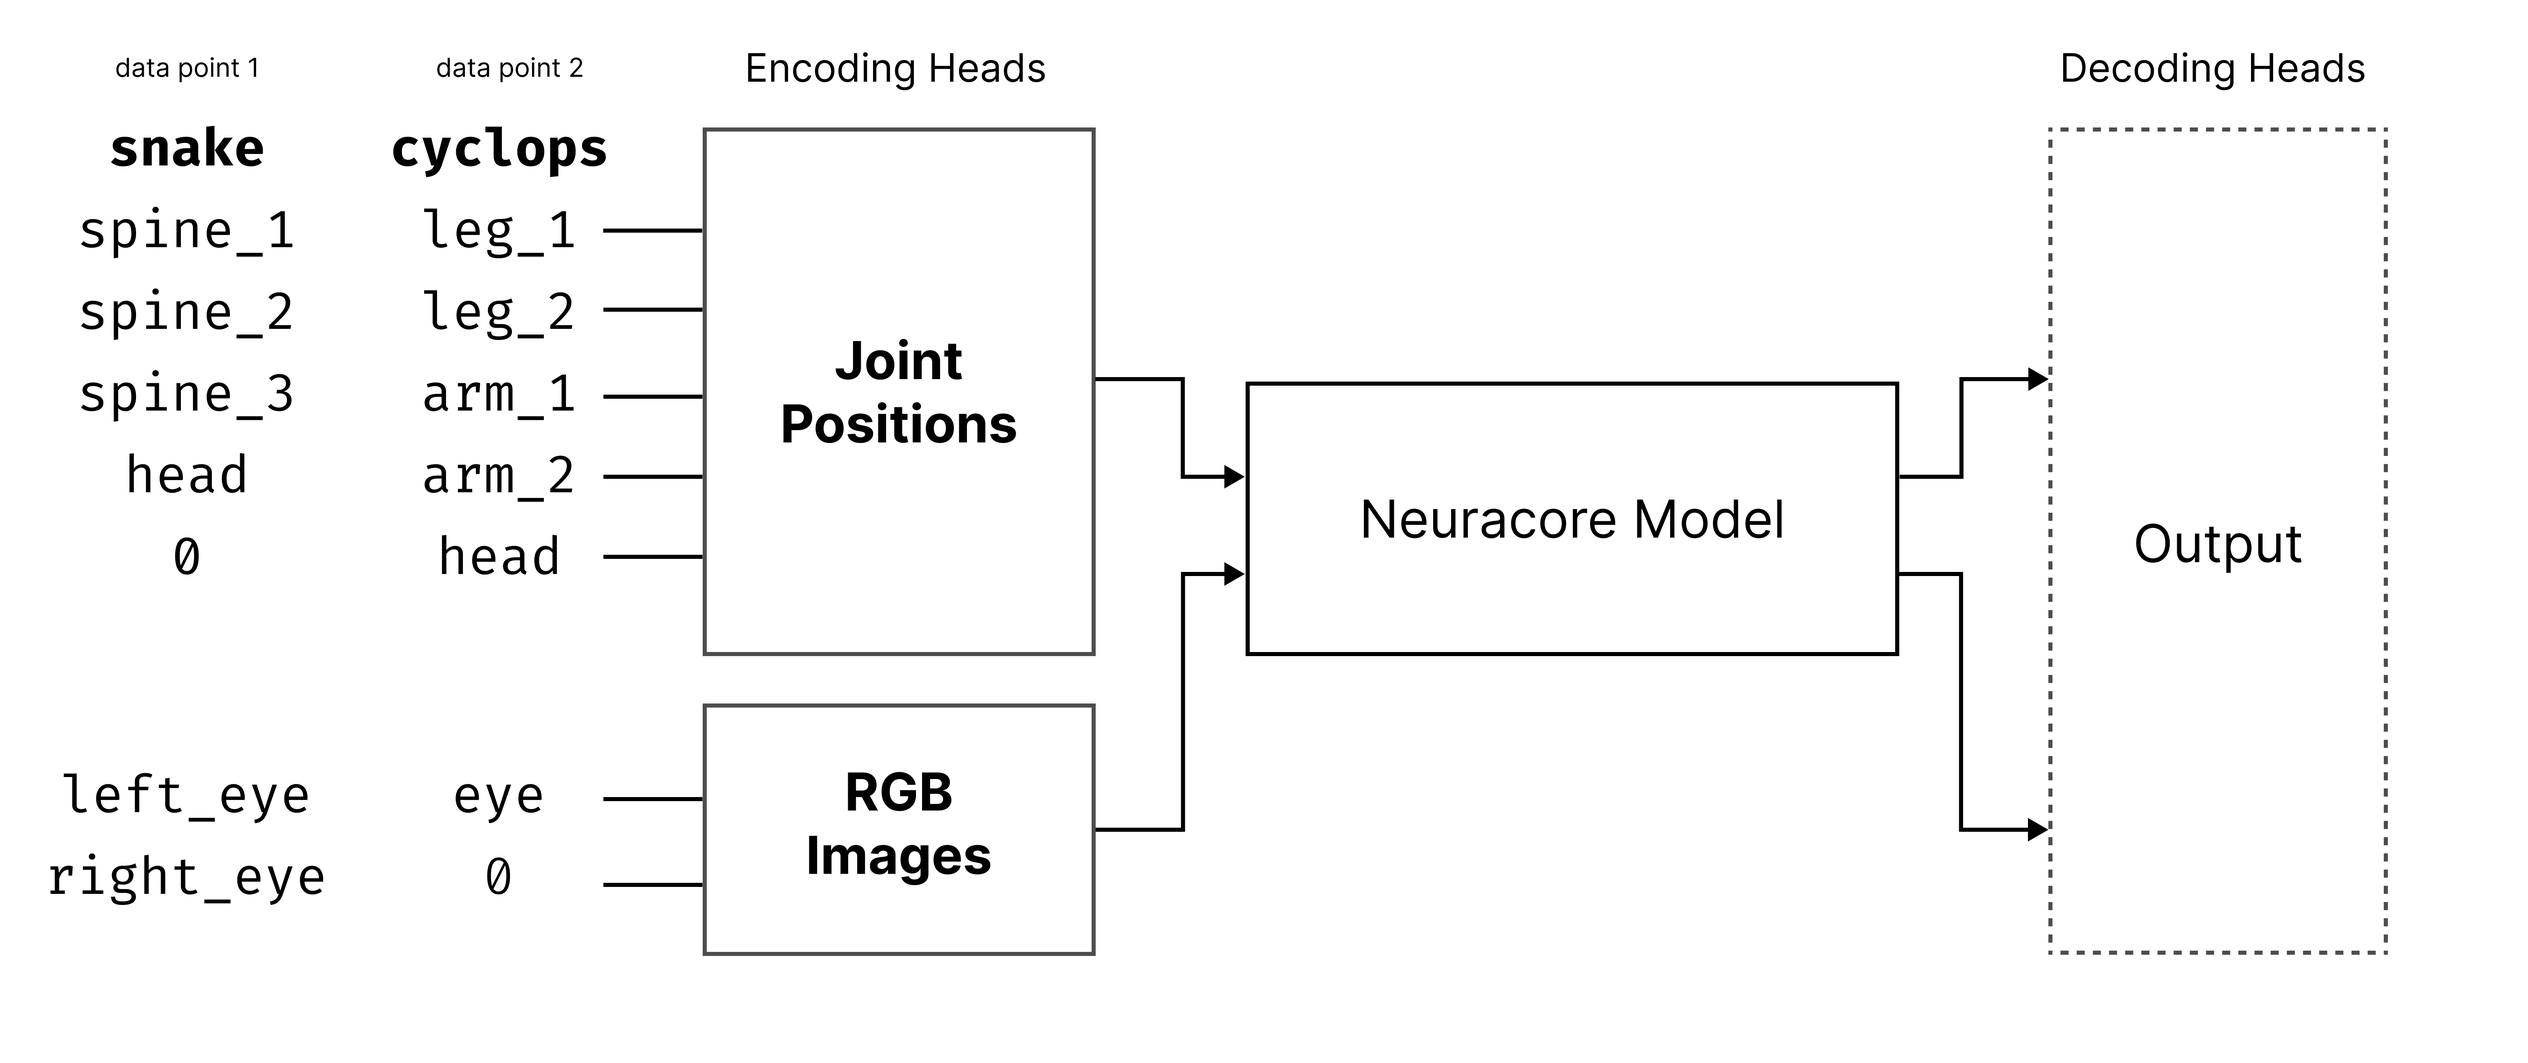
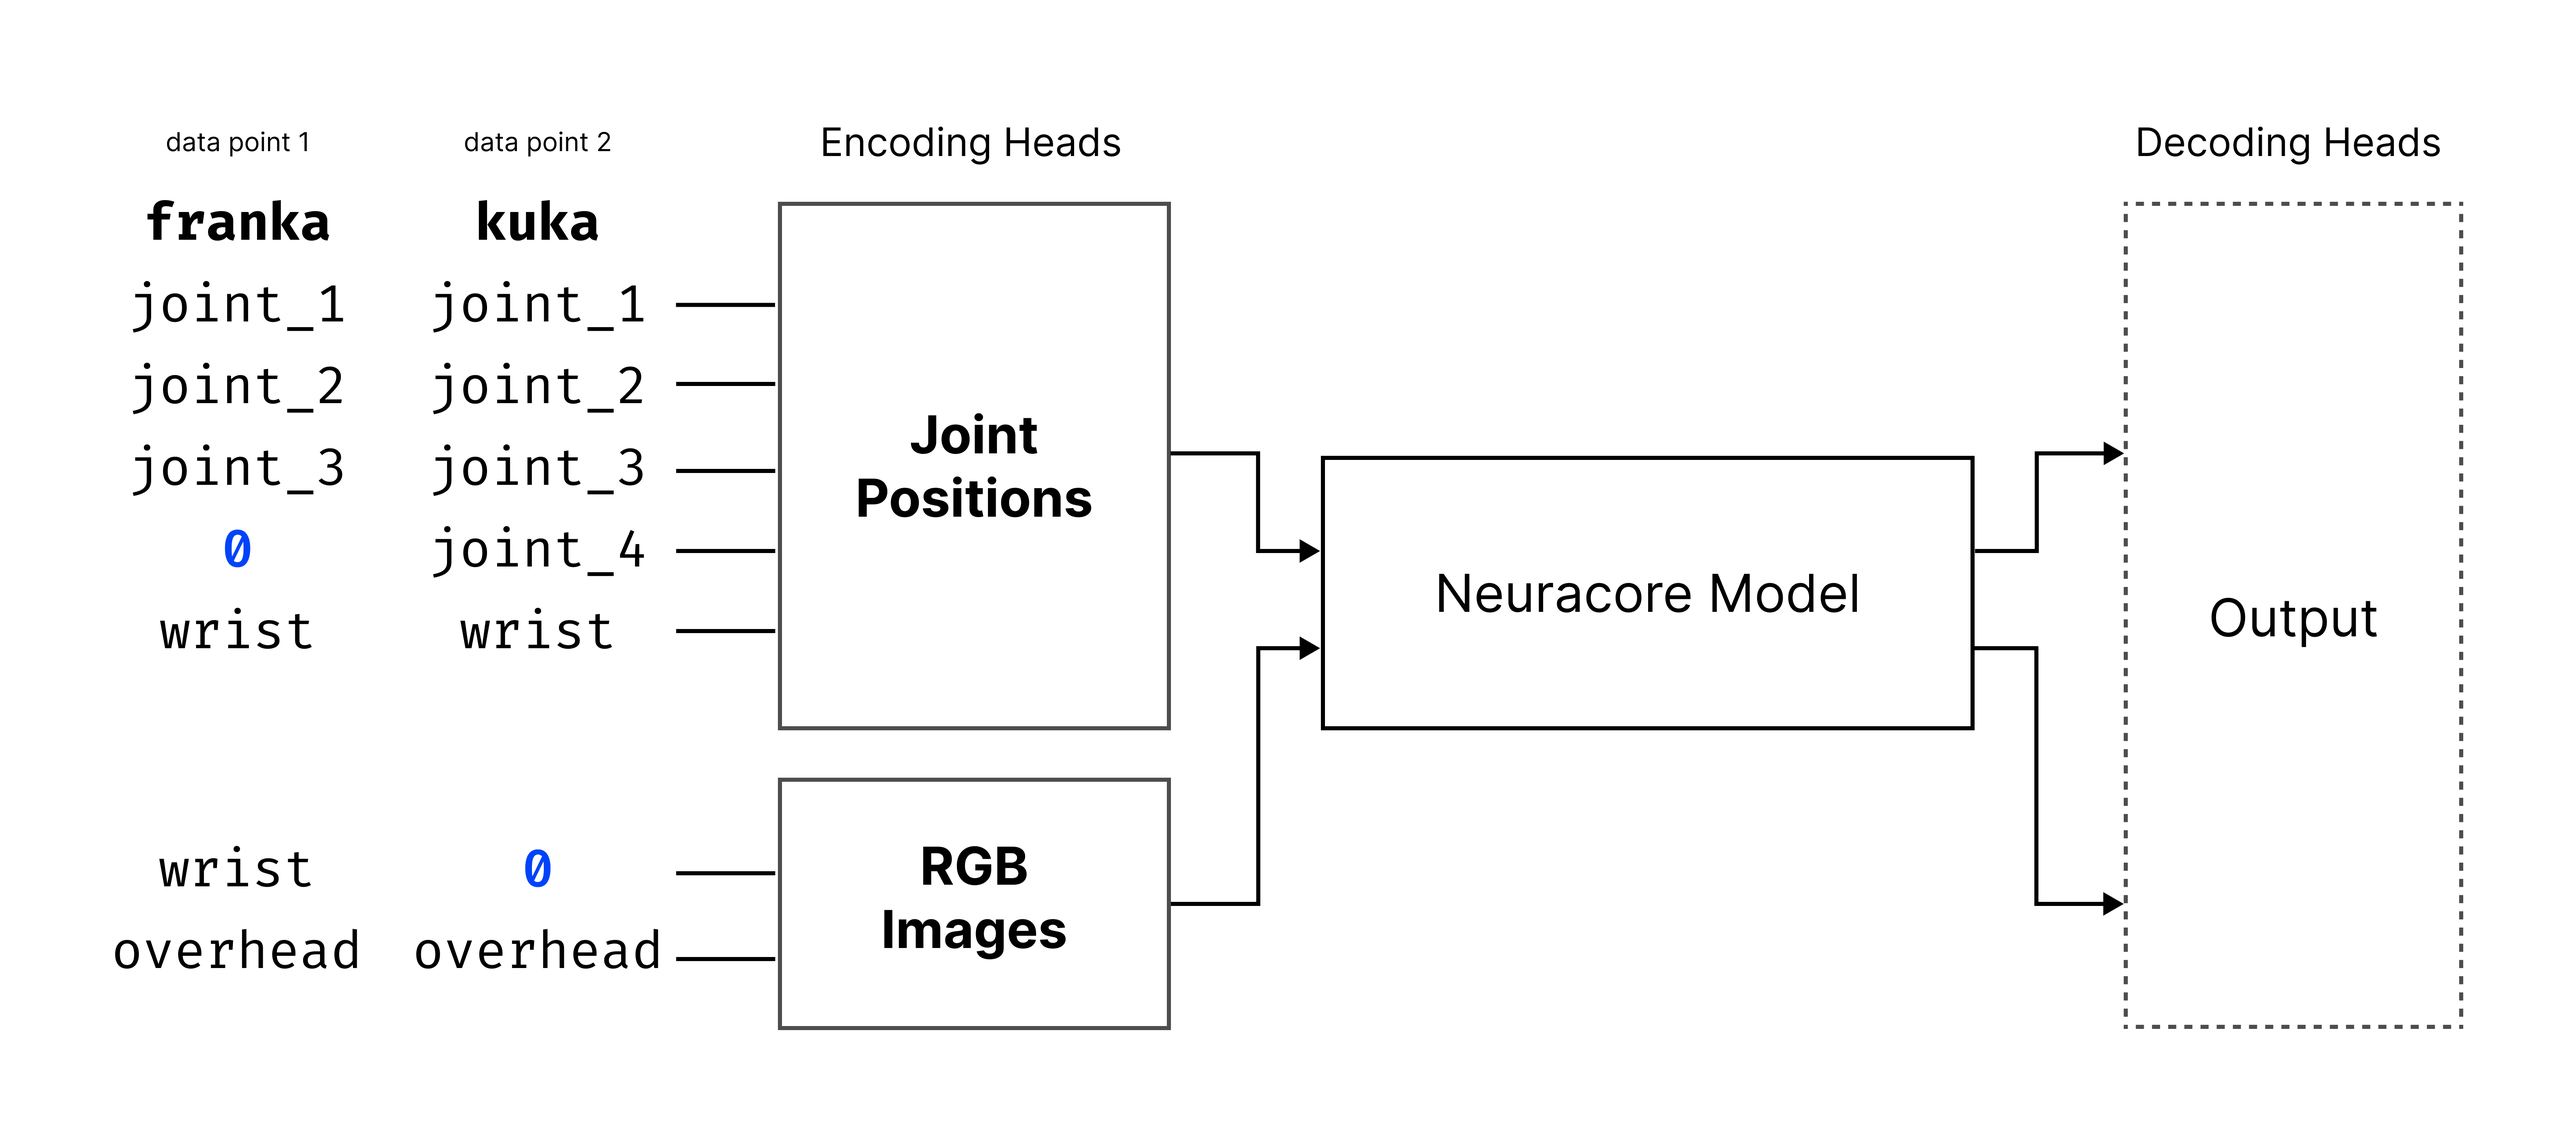
fix: update images

diff --git a/docs/model_construction.md b/docs/model_construction.md
@@ -4,7 +4,7 @@
 
 It usually begins with a single robot. You train a model on a Franka Emika Panda, define the input tensors, fix the output dimensionality, and everything works as expected. The model converges, inference is stable, and the system feels clean and well-structured. At this stage, the architecture appears robot-agnostic — but in reality, it is tightly coupled to one embodiment.
 
-Then a second dataset is introduced, perhaps from a KUKA LBR iiwa. On the surface, the robots are similar: both are 7-DoF manipulators with grippers and RGB inputs. But under the hood, the differences begin to surface. Joint names differ. One robot has an extra joint. Camera placements are not identical. The ordering of data points in the logs does not match. Even gripper data may be represented differently.
+Then a second dataset is introduced, perhaps from a KUKA LBR iiwa. On the surface, the robots are similar: both are 7-DoF manipulators with wrist joints and RGB inputs. But under the hood, the differences begin to surface. Joint names differ. One robot has an extra joint. Camera placements are not identical. The ordering of data points in the logs does not match. Even wrist joint data may be represented differently.
 
 At first, the solution is incremental. You reorder tensors. You insert padding. You add a mapping layer. You write conditionals in the inference code. The pipeline still runs. But now structure has started leaking. The model input definition is no longer cleanly separated from embodiment logic.
 
@@ -63,7 +63,7 @@ This distinction matters because model construction operates across embodiments,
 
 An `EmbodimentDescription` defines what data points exist for one robot and where each datapoint lives in index space.
 
-Each `DataType` (for example `JOINTS`, `RGB_IMAGES`, `GRIPPER_OPEN_AMOUNT`) maps to:
+Each `DataType` (for example `JOINTS`, `RGB_IMAGES`, `GRIPPER_JOINT_OPEN_AMOUNT`) maps to:
 
 `dict[int, str]`
 
@@ -80,7 +80,7 @@ Conceptual example:
         1: "panda_joint_2",
         2: "panda_joint_3",
         3: "panda_joint_4",
-        5: "franka_gripper",
+        5: "franka_wrist_joint",
     },
     RGB_IMAGES: {
         0: "wrist_camera",
@@ -132,7 +132,7 @@ Each robot is an `EmbodimentDescription`, and the full mapping is a `CrossEmbodi
 
 For clarity, input and output specs are identical here. In practice, output specs often represent target data (for example target joints, torques, or end-effector pose) and may differ from input specs.
 
-```python
+```python{8,25}
 input_cross_embodiment_spec: CrossEmbodimentDescription = {
     "franka": {
         JOINTS: {
@@ -140,7 +140,7 @@ input_cross_embodiment_spec: CrossEmbodimentDescription = {
             1: "panda_joint_2",
             2: "panda_joint_3",
             3: "panda_joint_4",
-            5: "franka_gripper",
+            5: "franka_wrist_joint", # Index 4 is missing as there is no joint_5
         },
         RGB_IMAGES: {
             0: "franka_wrist_camera",
@@ -154,17 +154,17 @@ input_cross_embodiment_spec: CrossEmbodimentDescription = {
             2: "iiwa_joint_3",
             3: "iiwa_joint_4",
             4: "iiwa_joint_5",
-            5: "kuka_gripper",
+            5: "kuka_wrist_joint",
         },
         RGB_IMAGES: {
-            0: "kuka_front_camera",
+            1: "kuka_overhead_camera", # Index 0 is missing as there is no wrist camera
         },
     },
 }
 
 output_cross_embodiment_spec: CrossEmbodimentDescription = input_cross_embodiment_spec
 ```
-In this example, the Franka gripper is assigned to **index 5** in the model’s joint vector. However, the Franka robot does not have a joint corresponding to **index 4**, meaning that position in the vector is unused for this robot and therefore padded (typically with zeros).
+In this example, the Franka wrist joint is assigned to **index 5** in the model’s joint vector. However, the Franka robot does not have a joint corresponding to **index 4**, meaning that position in the vector is unused for this robot and therefore padded (typically with zeros).
 
 We did this to keep a consistent joint vector size and ordering across all robots used during training.
 
@@ -189,7 +189,7 @@ Padding is simply a structural requirement to preserve a shared representation a
 ## Data Padding
 
 Different robots can have different numbers of joints, but training requires a **consistent tensor shape**.
-In this example, the gripper value stays at its globally assigned index, even when some intermediate indices are empty for a given robot.
+In this example, the wrist joint value stays at its globally assigned index, even when some intermediate indices are empty for a given robot.
 
 If one robot has fewer joints, Neuracore fills missing dimensions with `0` so all records align to the same width.
 
@@ -203,20 +203,20 @@ Reading the table:
 
 | Recording ID | 0             | 1             | 2             | 3             | 4              | 5             |
 | ------------ | ------------- | ------------- | ------------- | ------------- | -------------- | ------------- |
-| 1            | panda_joint_1 | panda_joint_2 | panda_joint_3 | panda_joint_4 | **0**          | franka_gripper |
-| 2            | iiwa_joint_1  | iiwa_joint_2  | iiwa_joint_3  | iiwa_joint_4  | iiwa_joint_5   | kuka_gripper  |
-| 3            | panda_joint_1 | panda_joint_2 | panda_joint_3 | panda_joint_4 | **0**          | franka_gripper |
-| 4            | panda_joint_1 | panda_joint_2 | panda_joint_3 | panda_joint_4 | **0**          | franka_gripper |
-| 5            | panda_joint_1 | panda_joint_2 | panda_joint_3 | panda_joint_4 | **0**          | franka_gripper |
-| 6            | iiwa_joint_1  | iiwa_joint_2  | iiwa_joint_3  | iiwa_joint_4  | iiwa_joint_5   | kuka_gripper  |
-| 7            | iiwa_joint_1  | iiwa_joint_2  | iiwa_joint_3  | iiwa_joint_4  | iiwa_joint_5   | kuka_gripper  |
-| 8            | iiwa_joint_1  | iiwa_joint_2  | iiwa_joint_3  | iiwa_joint_4  | iiwa_joint_5   | kuka_gripper  |
+| 1            | panda_joint_1 | panda_joint_2 | panda_joint_3 | panda_joint_4 | **0**          | franka_wrist_joint |
+| 2            | iiwa_joint_1  | iiwa_joint_2  | iiwa_joint_3  | iiwa_joint_4  | iiwa_joint_5   | kuka_wrist_joint  |
+| 3            | panda_joint_1 | panda_joint_2 | panda_joint_3 | panda_joint_4 | **0**          | franka_wrist_joint |
+| 4            | panda_joint_1 | panda_joint_2 | panda_joint_3 | panda_joint_4 | **0**          | franka_wrist_joint |
+| 5            | panda_joint_1 | panda_joint_2 | panda_joint_3 | panda_joint_4 | **0**          | franka_wrist_joint |
+| 6            | iiwa_joint_1  | iiwa_joint_2  | iiwa_joint_3  | iiwa_joint_4  | iiwa_joint_5   | kuka_wrist_joint  |
+| 7            | iiwa_joint_1  | iiwa_joint_2  | iiwa_joint_3  | iiwa_joint_4  | iiwa_joint_5   | kuka_wrist_joint  |
+| 8            | iiwa_joint_1  | iiwa_joint_2  | iiwa_joint_3  | iiwa_joint_4  | iiwa_joint_5   | kuka_wrist_joint  |
 
 The same strategy applies to other data types, including image channels.
 
 When training on cross-embodiment data, it is important to match joints by meaning, not just by name or position in a list.
 
-Joints that perform the same role — for example base rotation, elbow bend, or gripper open/close — should be placed in the same index of the model’s input and output vectors across all robots.
+Joints that perform the same role — for example base rotation, elbow bend, or wrist joint motion — should be placed in the same index of the model’s input and output vectors across all robots.
 
 If this is not done:
 
@@ -226,16 +226,14 @@ If this is not done:
 
 For cross-robot training to work well, each dimension in the model must represent a consistent physical meaning across all embodiments.
 
-> [!WARNING]
-> Misaligned indices create **label noise across robots** and can significantly reduce generalization.
-
-## Training a Neuracore Model
-
 Once padding enforces consistent shapes across recordings and robots, the model can be constructed as shown below.
 
 ![Model input diagram](assets/model_input.png)
 
 In this example, input and output specs are the same, so model heads have identical shape.
+
+> [!WARNING]
+> Misaligned indices create **label noise across robots** and can significantly reduce generalization.
 
 ## Running Inference
 
@@ -251,7 +249,7 @@ model_input_embodiment_description: EmbodimentDescription = {
         2: "iiwa_joint_3",
         3: "iiwa_joint_4",
         4: "iiwa_joint_5",
-        5: "kuka_gripper",
+        5: "kuka_wrist_joint",
     },
     RGB_IMAGES: {
         0: "kuka_front_camera",
@@ -270,7 +268,7 @@ model_input_data_spec: EmbodimentDescription = {
         1: "panda_joint_2",
         2: "panda_joint_3",
         3: "panda_joint_4",
-        5: "franka_gripper",
+        5: "franka_wrist_joint",
     },
     RGB_IMAGES: {
         0: "franka_wrist_camera",
@@ -283,22 +281,22 @@ model_input_data_spec: EmbodimentDescription = {
 
 Suppose a new inference-time robot `ur5` has:
 
-`[ur5_shoulder_pan, ur5_shoulder_lift, ur5_gripper]`
+`[ur5_shoulder_pan, ur5_shoulder_lift, ur5_wrist_joint]`
 
-Since this robot only has two joints plus a gripper, we should semantically align those datapoints with the trained index layout and keep the gripper at the same index used during training:
+Since this robot only has two joints plus a wrist joint, we should semantically align those datapoints with the trained index layout and keep the wrist joint at the same index used during training:
 
 | Robot  | 0                 | 1                  | 2             | 3             | 4            | 5               |
 | ------ | ----------------- | ------------------ | ------------- | ------------- | ------------ | --------------- |
-| franka | panda_joint_1     | panda_joint_2      | panda_joint_3 | panda_joint_4 | **0**        | franka_gripper  |
-| kuka   | iiwa_joint_1      | iiwa_joint_2       | iiwa_joint_3  | iiwa_joint_4  | iiwa_joint_5 | kuka_gripper    |
-| ur5    | ur5_shoulder_pan  | ur5_shoulder_lift  | **0**         | **0**         | **0**        | ur5_gripper     |
+| franka | panda_joint_1     | panda_joint_2      | panda_joint_3 | panda_joint_4 | **0**        | franka_wrist_joint  |
+| kuka   | iiwa_joint_1      | iiwa_joint_2       | iiwa_joint_3  | iiwa_joint_4  | iiwa_joint_5 | kuka_wrist_joint    |
+| ur5    | ur5_shoulder_pan  | ur5_shoulder_lift  | **0**         | **0**         | **0**        | ur5_wrist_joint     |
 
-```python
+```python{5,8}
 ur5_embodiment_spec: EmbodimentDescription = {
     JOINTS: {
         0: "ur5_shoulder_pan",
         1: "ur5_shoulder_lift",
-        5: "ur5_gripper",
+        5: "ur5_wrist_joint",
     },
     RGB_IMAGES: {
         1: "ur5_overhead_camera",
@@ -319,10 +317,6 @@ where:
 then that ordering becomes part of the model’s learned structure.
 
 If, at inference time, a new robot only has a single RGB camera mounted overhead, we must place that image in index 1, not index 0, because the model has learned that index 1 corresponds to the overhead viewpoint.
-
-
-![Model ordering diagram](assets/model_ordering.png)
-
 
 
 ## More Complex Robots
